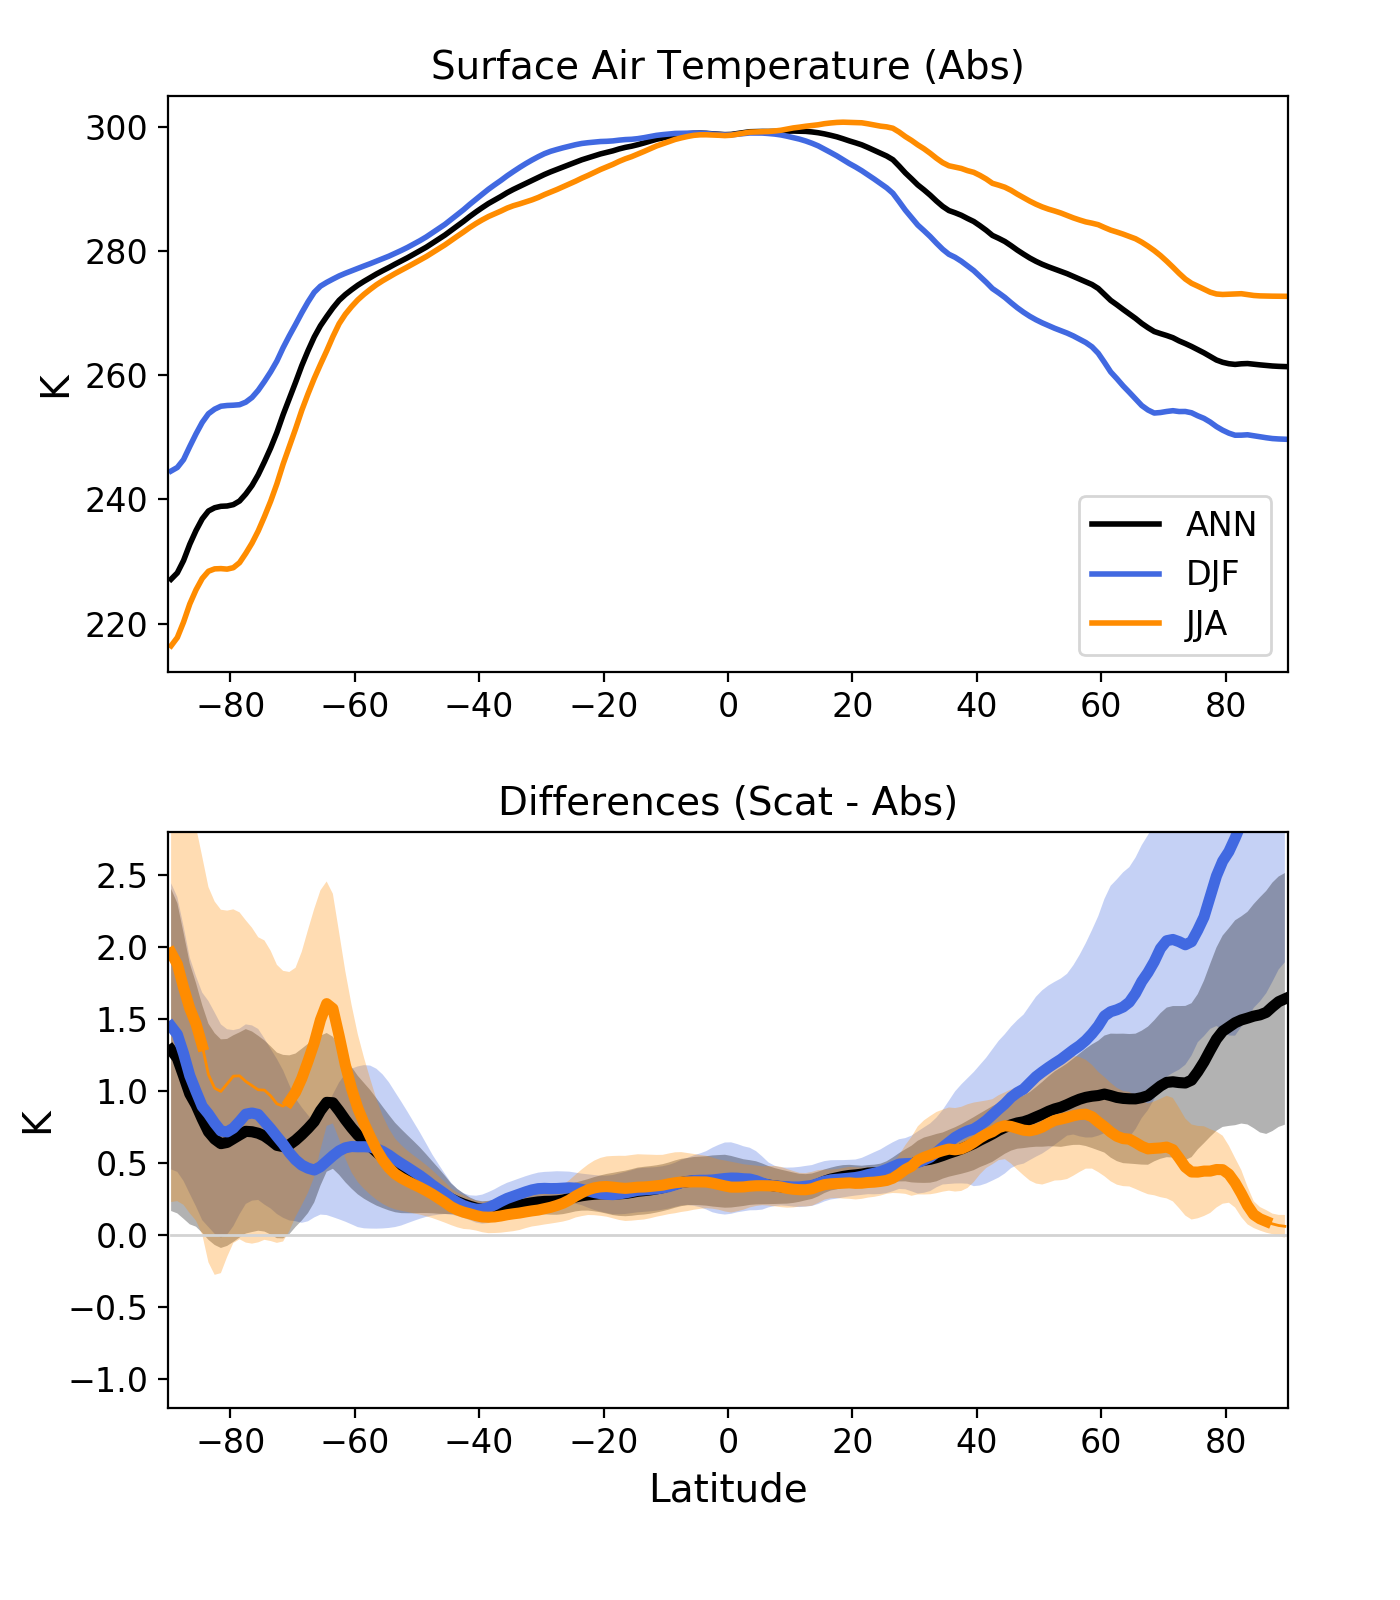
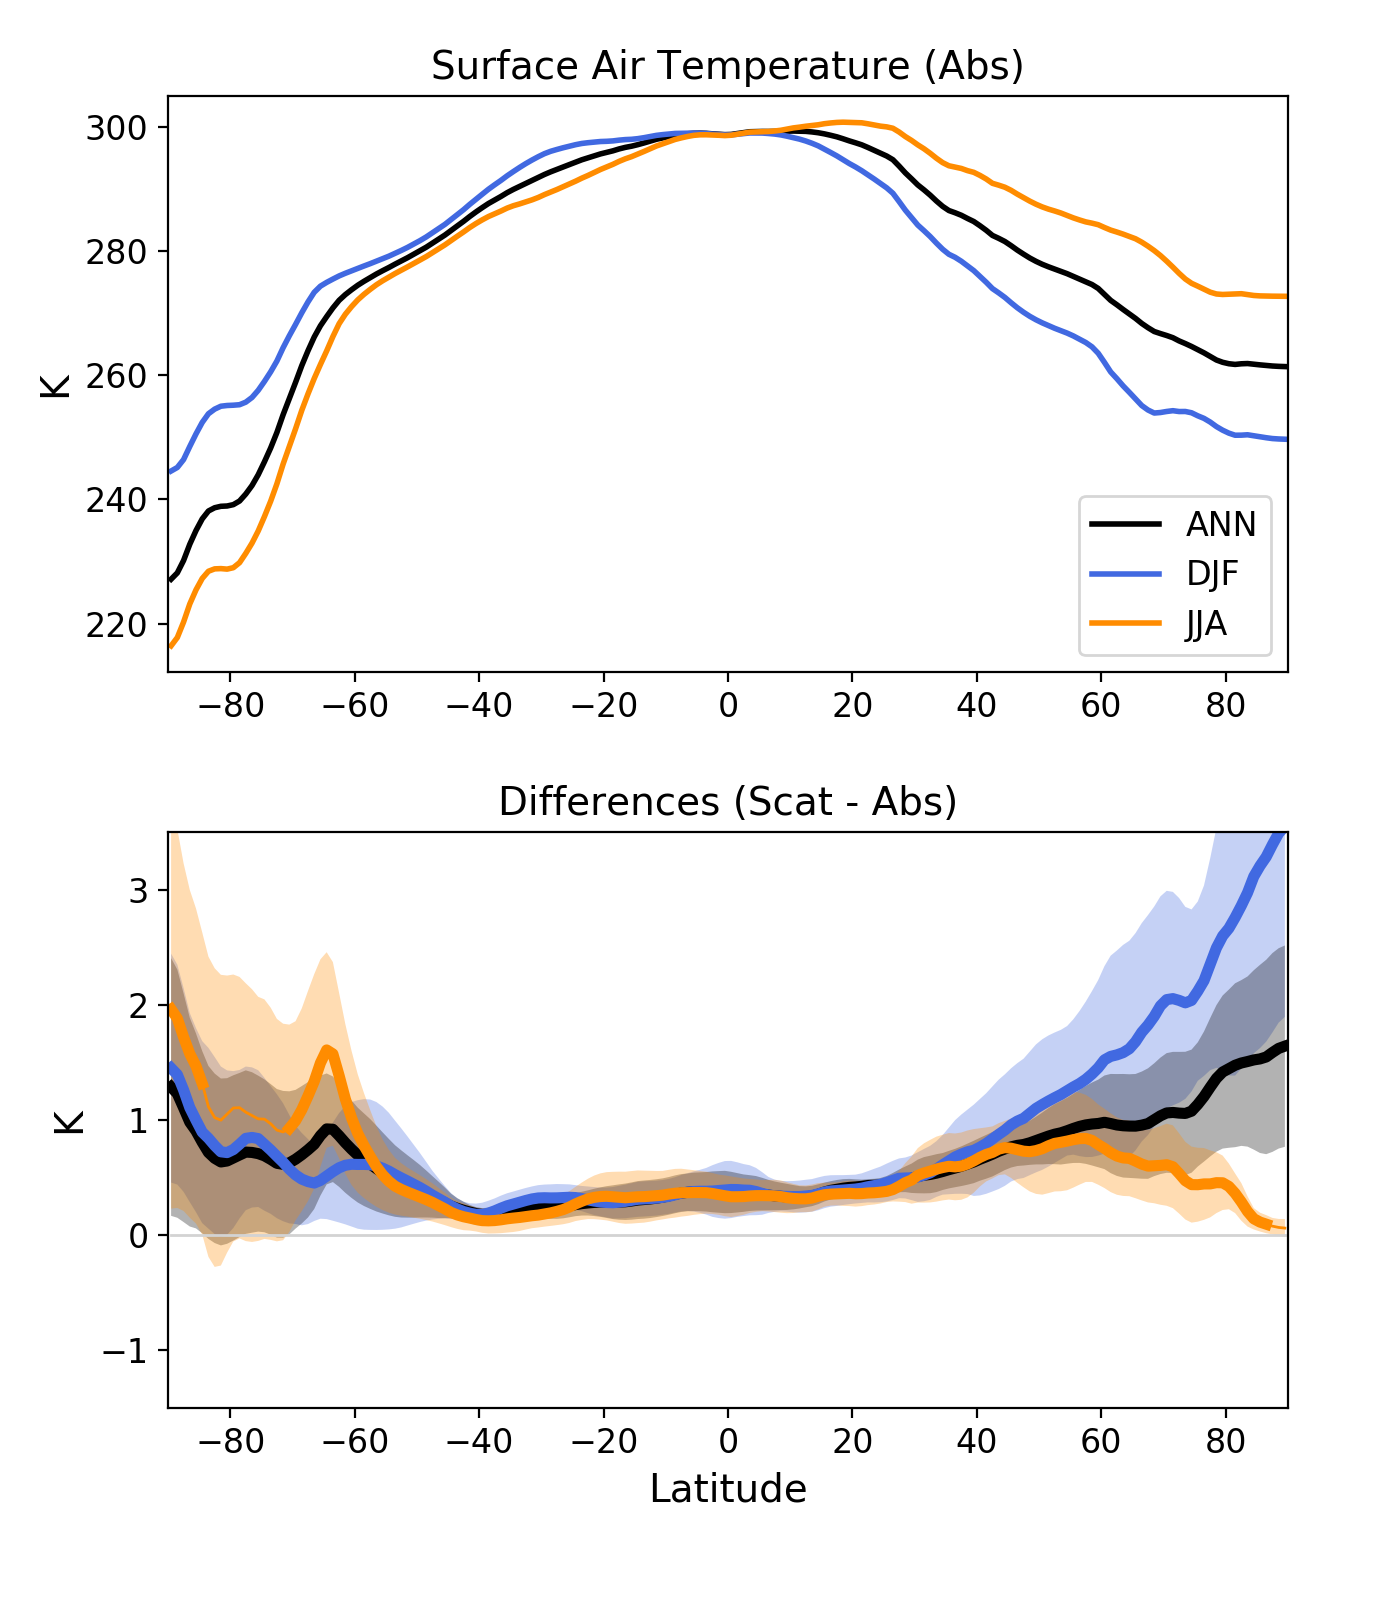
none

Changed region(s): [[0.0614, 0.5, 0.9214, 0.7812], [0.0614, 0.8125, 0.1229, 0.875], [0.0, 0.6875, 0.0614, 0.7188]]

diff --git a/d4_zonal_mean_model_vs_model.py b/d4_zonal_mean_model_vs_model.py
@@ -265,7 +265,7 @@ ax2.set_title("Differences (Scat - Abs)",fontsize=14) #+var_long_name,fontsize=1
 ax2.set_ylabel(units,fontsize=14)
 ax2.set_xlabel("Latitude",fontsize=14)
 ax2.set_xlim(-90,90)
-ax2.set_ylim(-1.2,2.8)
+ax2.set_ylim(-1.5,3.5)
 plt.xticks(fontsize=12)
 plt.yticks(fontsize=12)
 
